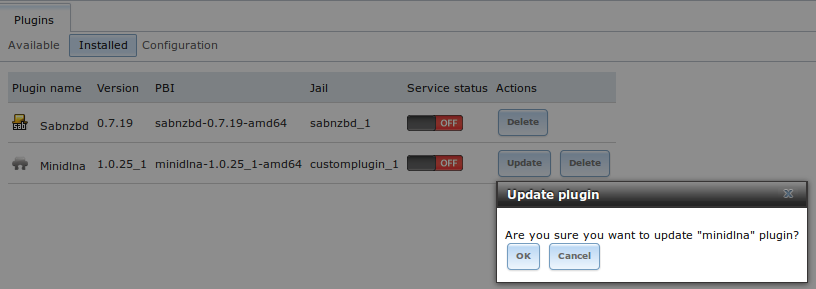
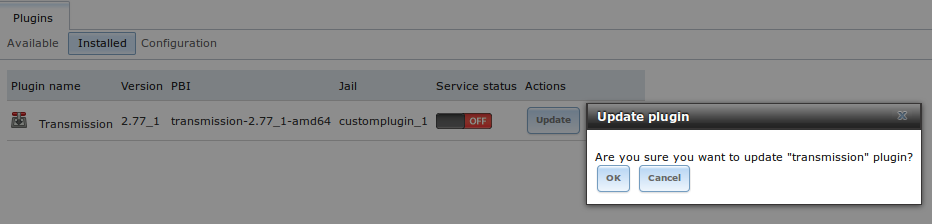
Update example to not use minidlna.

diff --git a/docs/userguide/freenas_plugins.rst b/docs/userguide/freenas_plugins.rst
@@ -109,15 +109,15 @@ Updating Plugins
 ----------------
 
 When a newer version of a plugin becomes available in the official repository, an "Update" button is added to the entry for the plugin in the "Installed" tab.
-In the example shown in Figure 12.2a, a newer version of Minidlna is available.
+In the example shown in Figure 12.2a, a newer version of Transmission is available.
 
 **Figure 12.2a: Updating an Installed Plugin**
 
 |plugins4.png|
 
 .. |plugins4.png| image:: images/plugins4.png
-    :width: 6.9in
-    :height: 2.4in
+    :width: 7.8in
+    :height: 1.9in
 
 Click the "OK" button to start the download and installation of the latest version of the plugin. Once the update is complete, the entry for the plugin will
 be refreshed to show the new version number and the "Update" button will disappear.
